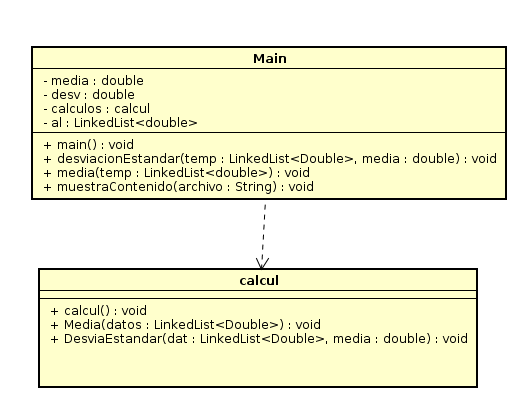
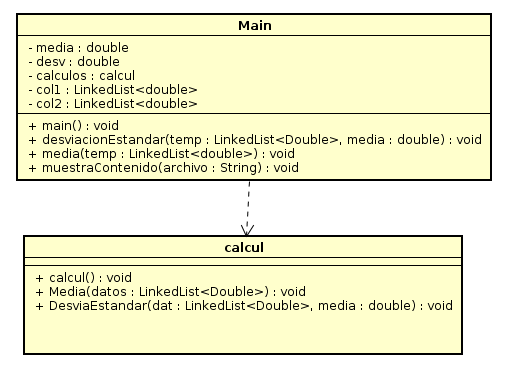
MejoradoLicencia

diff --git a/src/main/java/calculate/main.java b/src/main/java/calculate/main.java
@@ -10,8 +10,13 @@ import java.io.BufferedReader;
 import java.io.FileNotFoundException;
 import java.io.FileReader;
 import java.io.IOException;
+import java.nio.file.Path;
+import java.nio.file.Paths;
 import java.util.Iterator;
 import java.util.LinkedList;
+import java.util.Scanner;
+import java.util.logging.Level;
+import java.util.logging.Logger;
 import static javafx.scene.input.KeyCode.T;
 
 /**
@@ -23,34 +28,49 @@ public class main {
     private static Double desv;
     //private static ListaDinamica<Integer> numeros = new ListaDinamica<>();
     private static calcul calculos;
-    private static LinkedList<Double> al=new LinkedList<Double>();  
-    public static void muestraContenido(String archivo) throws FileNotFoundException, IOException {
-        String cadena;
-        FileReader f = new FileReader(archivo);
-        BufferedReader b = new BufferedReader(f);
-        while((cadena = b.readLine())!=null) {
-            double doble = Double.parseDouble(cadena);
-            al.addLast(doble);
-        }
-        b.close();
-        media(al);
-        desviacionEstandar(al,media);
+    private static LinkedList<Double> col1=new LinkedList<Double>();  
+    private static LinkedList<Double> col2=new LinkedList<Double>();  
+    
+    public static void main(String[] args) throws IOException{
+        muestraContenido();
+        System.out.println("table 1:");
+        media(col1);
+        desviacionEstandar(col1, media);
+        System.out.println("table 2:");
+        media(col2);
+        desviacionEstandar(col2, media);        
+    }    
+    public static void muestraContenido() throws FileNotFoundException, IOException {
+    try {
+        Path filePath = Paths.get("src/main/java/calculate/prueba.txt");
+        Scanner scanner = new Scanner(filePath);
+        
+            while (scanner.hasNext()) {
+                if (scanner.hasNextDouble()) {
+                    //System.out.println(""+scanner.nextDouble());
+                    //System.out.println(""+scanner.nextDouble());
+                    col1.addFirst(scanner.nextDouble());
+                    col2.addFirst(scanner.nextDouble());
+                } else {
+                    scanner.next();
+                } 
+            }
+        } catch (IOException ex) {
+            Logger.getLogger(main.class.getName()).log(Level.SEVERE, null, ex);
+        }        
     }
     public static void media(LinkedList<Double> temp){
         media=0.0;
         calculos=new calcul();
         media=calculos.Media(temp);
-        System.out.println("respuest a es"+media);
+        System.out.println("La media es: "+String.format("%.2f", media));
     
     }    
     public static void desviacionEstandar(LinkedList<Double> temp, Double media){
         desv=0.0;
         calculos=new calcul();
         desv=calculos.DesviaEstandar(temp,media);
-        System.out.println("La desviacion estandar es "+desv);
+        System.out.println("La desviacion estandar es "+String.format("%.2f", desv));
     }    
-    public static void main(String[] args) throws IOException{
-        System.out.println("Hola");
-        muestraContenido("/home/cesar/Escritorio/Arem/Trabajo1/prueba.txt");
-    }
+
 }

diff --git a/Readme.md b/Readme.md
@@ -1,3 +1,5 @@
+# TAREA 1 AREM Descripcion
+
 El siguiente codigo representa la implementacion para dado un archivo .txt con un conjunto de datos nos regrese tanto
 la media de ese conjunto de datos como la desviacion estandar.
 
@@ -7,4 +9,52 @@ La siguiente aplicacion toma los valores de un documento .txt y obtiene la media
 A continuacion se muestra una imgaen de un diagrama de la aplicacion.
 
  ![](img/diag.png)
+ 
+ # Utilizar el Proyecto
+ Si desea utilizar el proecto lo que debe realizar es copiarlo del repositorio en git, pegando el siguiente texto que descargara una copia de git y lo almacenara en su directorio:
+ 
+ ```
+git clone https://github.com/arem2019-1/Trabajo1
+```
 
+### Prerequisitos
+
+Tener instalado Java jdk versiones 7+, Maven comandos y git
+
+### Instalando
+
+1. Ejecutar en terminal:
+
+```
+$$ mvn package
+```
+2.(opcional):
+si requiere a documentacion del codigo ejecute y estara en raiz /target:
+
+```
+mvn javadoc:javadoc
+```
+
+2. (Demostracion):
+  compile el proyecto desde la carpeta raiz ejecutando la siguiente linea:
+  
+```
+java -cp target/TareaMVNGit-1.0-SNAPSHOT.jar edu.escuelaing.arem.ASE.app.App
+```
+  le mostrara la media y desviación estandar del ejemplo de la Tabla 1 del ejercicio
+  
+  ![captura](https://user-images.githubusercontent.com/26507566/44247212-5ce6b000-a1a8-11e8-922c-fa705cb02cb7.PNG)
+  ![captura](https://user-images.githubusercontent.com/26507566/44247252-9d462e00-a1a8-11e8-9246-f4d6db77b244.PNG)
+  
+
+## Built con
+
+* [Maven](https://maven.apache.org/) - Dependency Management
+* [JAVA JDK 8](http://www.oracle.com/technetwork/java/javase/overview/index.html) - construcción
+
+## Autor
+* **CESAR EDUARDO LANOS CAMACHO** - *Initial work* - [cefarr](https://github.com/cefarr)
+
+## Licencia
+
+This project is licensed under the GNU General Public License - see the [LICENSE](LICENSE) file for details
